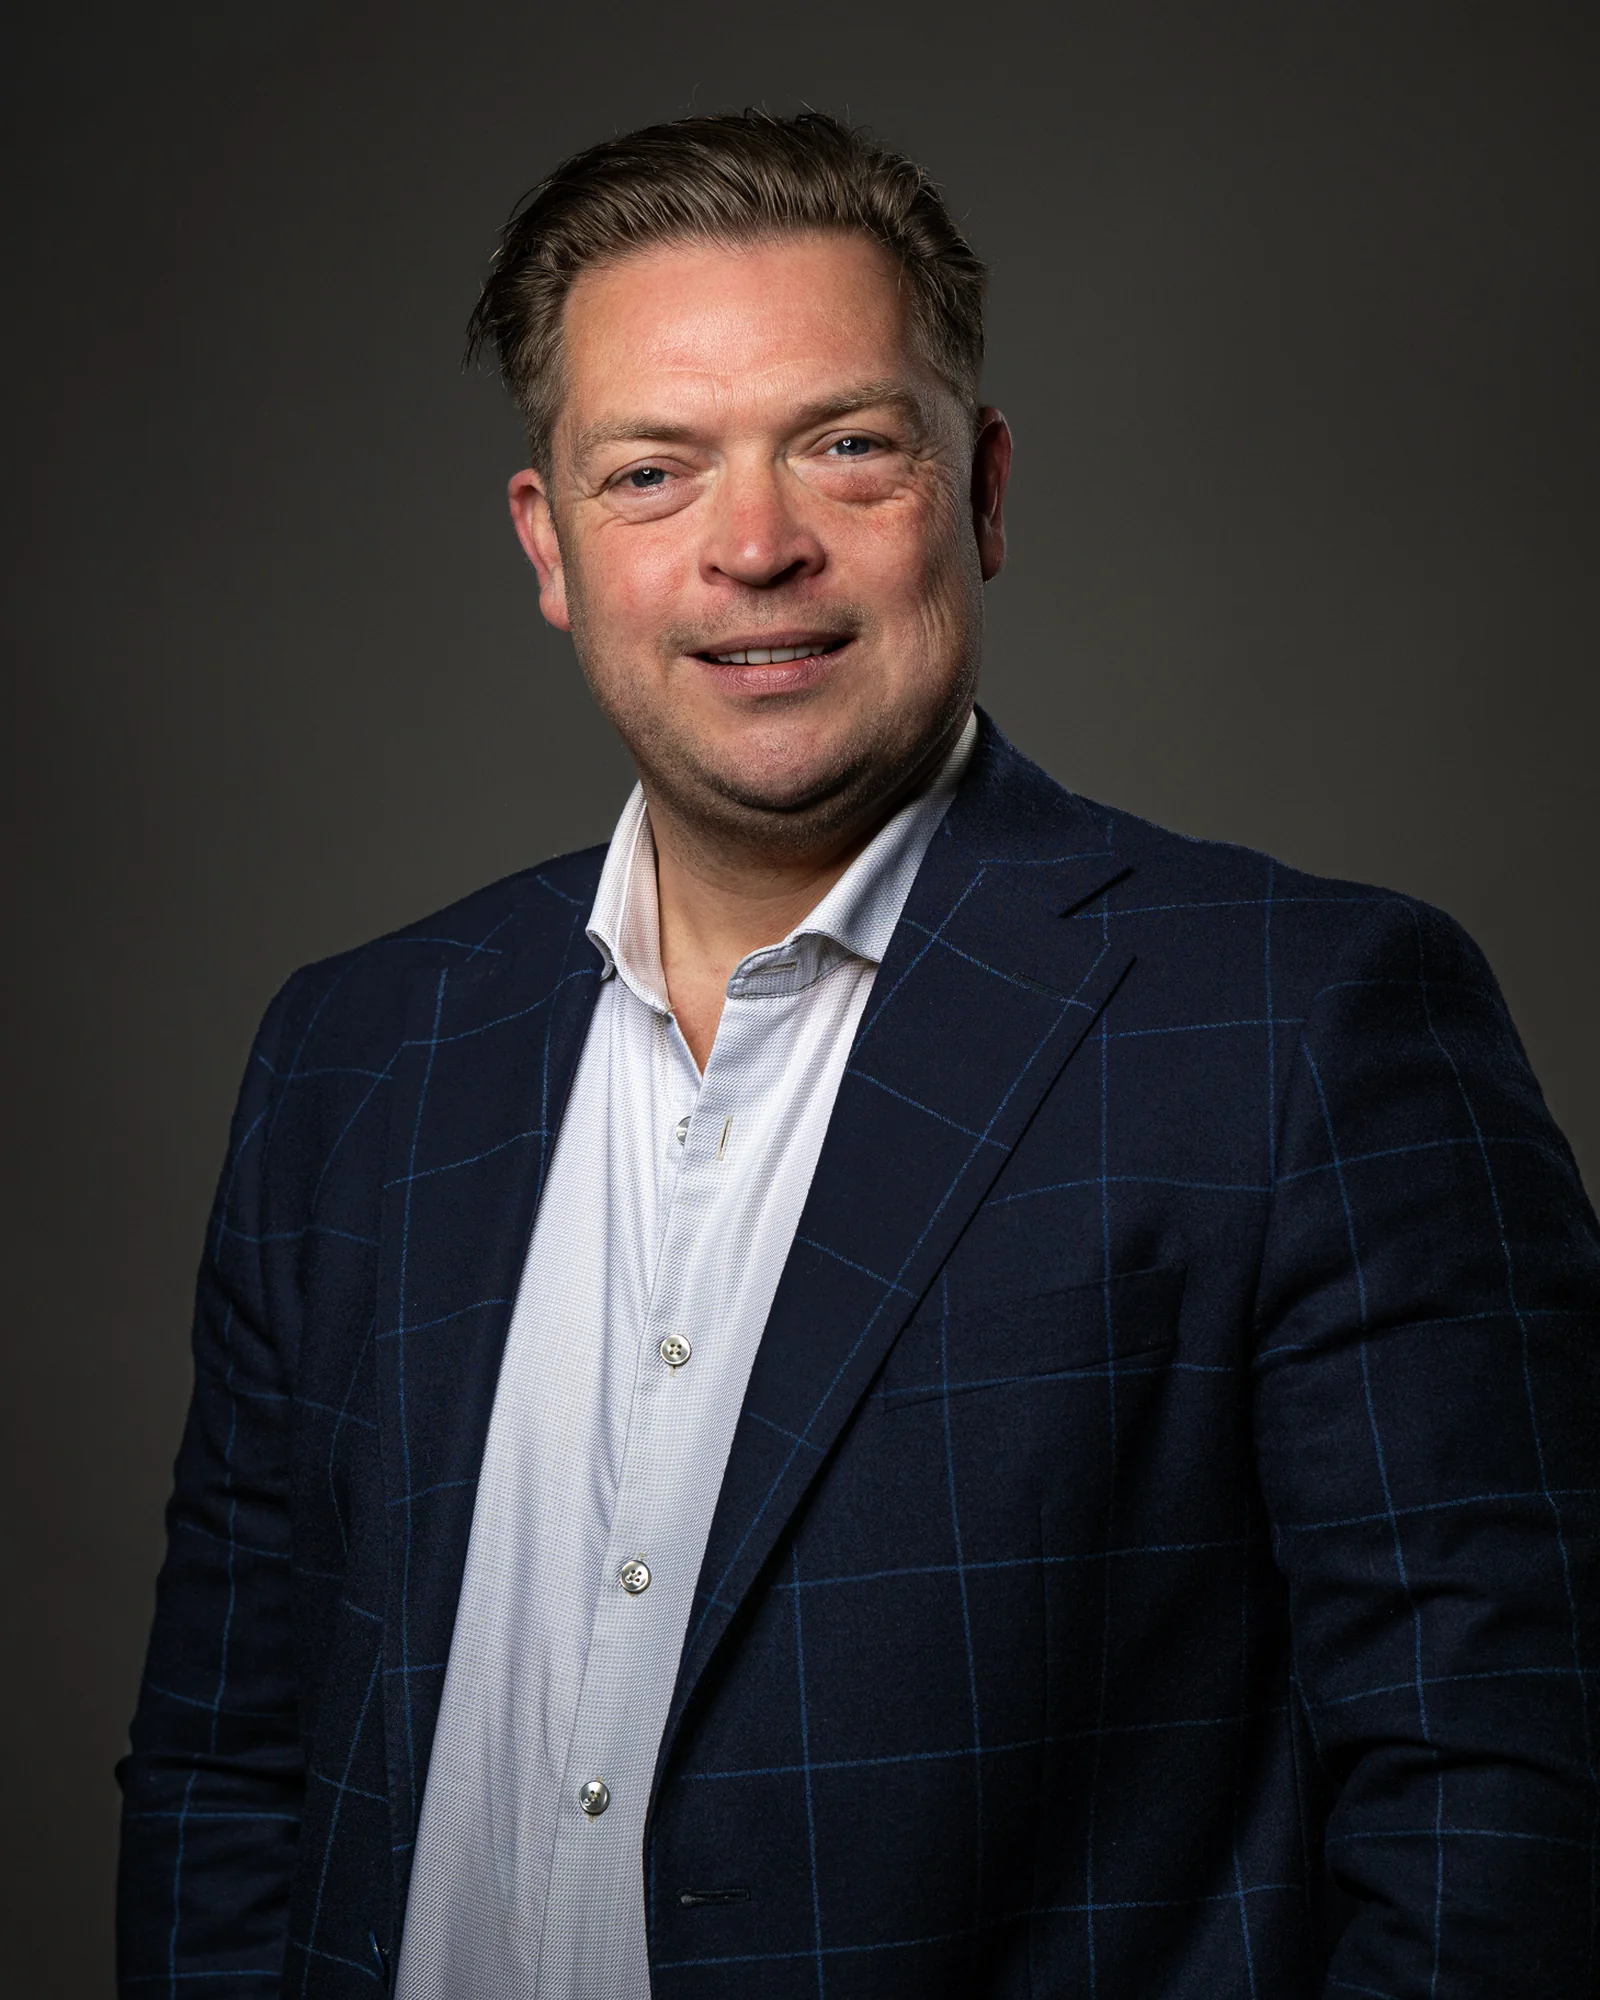
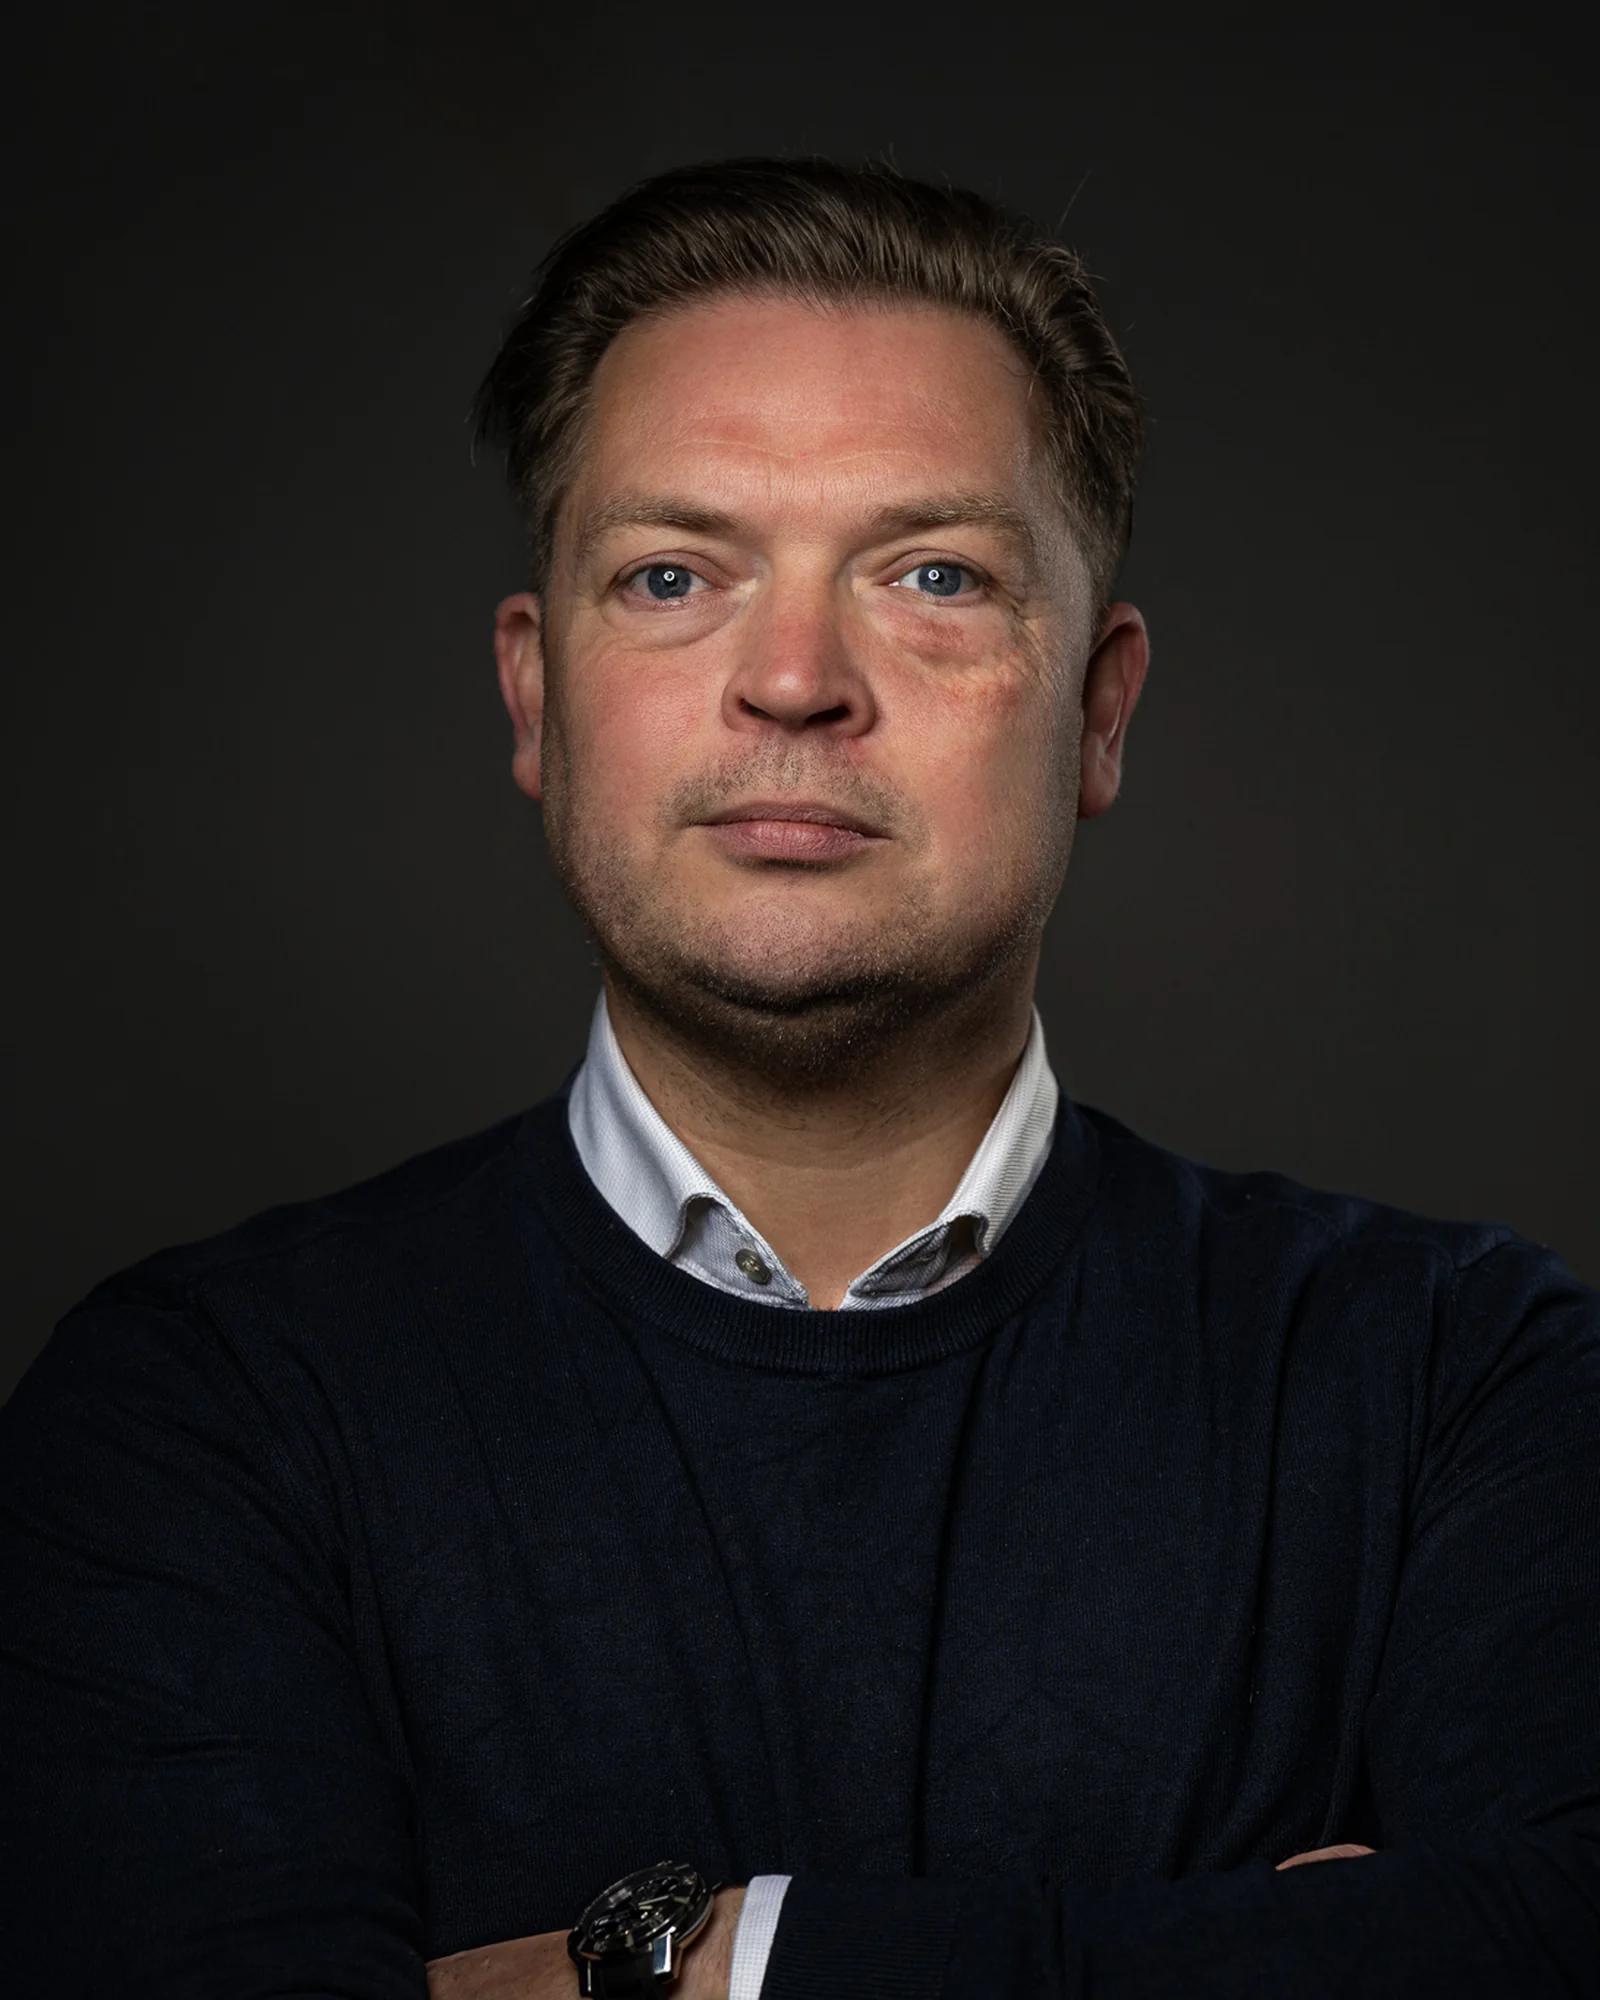
Homepage-hero: portret in geruit colbert (FCF_7794); Frank-blok krijgt FCF_7759
Claude-Session: https://claude.ai/code/session_01BuY6G4VZGuVyZ6hyrBvRrX

diff --git a/index.html b/index.html
@@ -172,7 +172,7 @@
         </div>
       </div>
       <div class="hero-media">
-        <img src="assets/images/frank-hero-actie-1600.webp" srcset="assets/images/frank-hero-actie-800.webp 800w, assets/images/frank-hero-actie-1600.webp 1600w" sizes="(max-width: 960px) 90vw, 45vw" width="1600" height="2000" alt="Frank van Engelen legt enthousiast iets uit tijdens een training" loading="eager" fetchpriority="high" decoding="async">
+        <img src="assets/images/frank-hero-portret-1600.webp" srcset="assets/images/frank-hero-portret-800.webp 800w, assets/images/frank-hero-portret-1600.webp 1600w" sizes="(max-width: 960px) 90vw, 45vw" width="1600" height="2000" alt="Portret van Frank van Engelen in donker colbert" loading="eager" fetchpriority="high" decoding="async">
       </div>
     </div>
     <div class="proof">
@@ -294,7 +294,7 @@
   <section class="section section--ink on-ink" id="frank">
     <div class="container frank">
       <div class="frank-media" data-reveal>
-        <img src="assets/images/frank-portret-donker-1600.webp" srcset="assets/images/frank-portret-donker-800.webp 800w, assets/images/frank-portret-donker-1600.webp 1600w" sizes="(max-width: 960px) 90vw, 48vw" width="1600" height="2000" alt="Portret van Frank van Engelen in donker colbert" loading="lazy" decoding="async">
+        <img src="assets/images/frank-portret-donker-1600.webp" srcset="assets/images/frank-portret-donker-800.webp 800w, assets/images/frank-portret-donker-1600.webp 1600w" sizes="(max-width: 960px) 90vw, 48vw" width="1600" height="2000" alt="Portret van Frank van Engelen" loading="lazy" decoding="async">
       </div>
       <div class="frank-copy" data-reveal>
         <span class="label">Frank van Engelen</span>
